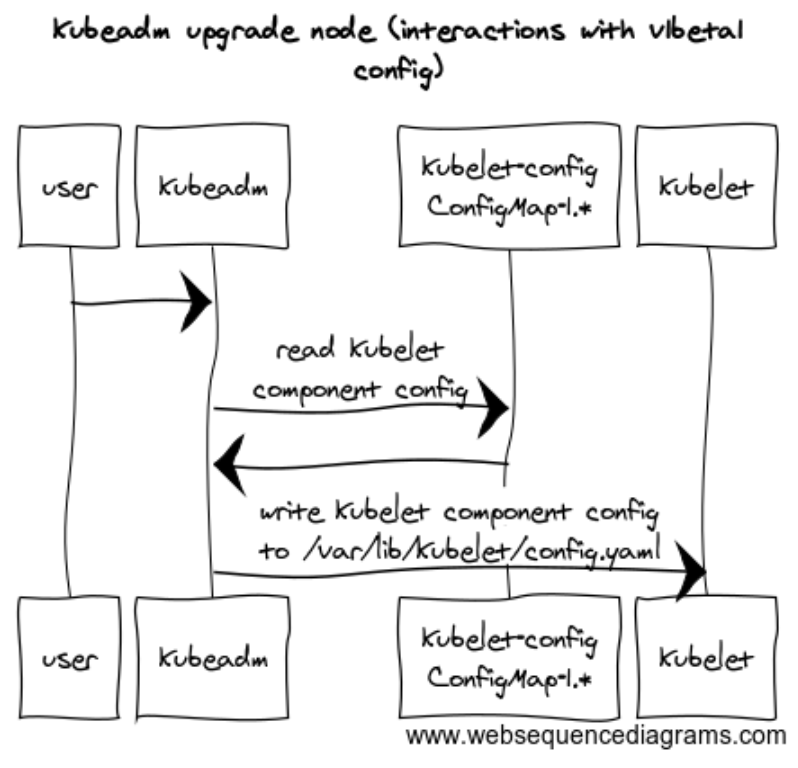
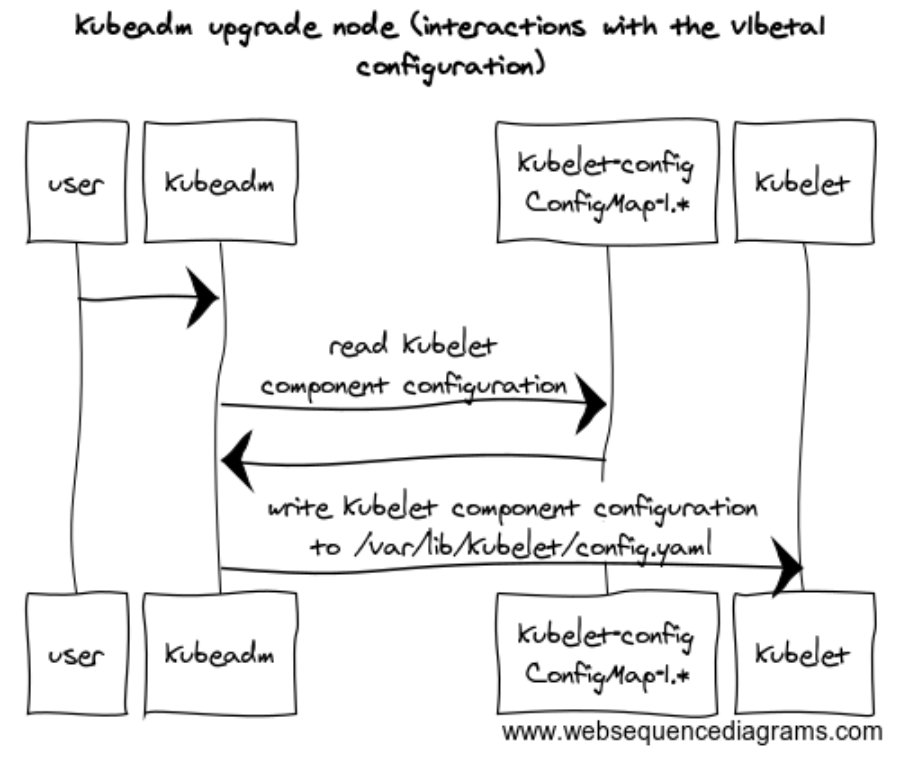
documentation for images

diff --git a/keps/sig-cluster-lifecycle/0023-documentation-for-images.md b/keps/sig-cluster-lifecycle/0023-documentation-for-images.md
@@ -1,0 +1,148 @@
+
+
+# Documentation for images
+
+Open https://www.websequencediagrams.com/ and paste the spec for the desired image:
+
+- [kubeadm init](#kubeadm-init)
+- [kubeadm join (and join --control-plane)](#kubeadm-join-and-join---control-plane)
+- [kubeadm reset](#kubeadm-reset)
+- [kubeadm upgrade](#kubeadm-upgrade)
+- [kubeadm upgrade node](#kubeadm-upgrade-node)
+
+## kubeadm init
+
+```
+title kubeadm init (interactions with the v1beta1 configuration)
+
+participant "user" as u 
+participant "kubeadm" as k
+participant "kubelet" as kk
+participant "node\n(api object)" as n
+participant "kubeadm-config\nConfigMap" as cm
+participant "kubeproxy-config\nConfigMap" as kpcm 
+participant "kubelet-config\nConfigMap-1.*" as kcm
+
+u->k:provide\nInitConfiguration (with NodeRegistrationOptions, ControlPlaneConfiguration)\nClusterConfiguration\nkube-proxy component configuration\nkubelet component configuration 
+
+k->kk:write kubelet component configuration\nto /var/lib/kubelet/config.yaml
+k->kk:write NodeRegistrationOptions\nto /var/lib/kubelet/kubeadm-flags.env
+kk->n:start node
+k->n:save NodeRegistrationOptions.CRISocket\nto kubeadm.alpha.kubernetes.io/cri-socket annotation 
+
+k->k:use InitConfiguration\n(e.g. tokens)
+
+k->cm:save ClusterConfiguration
+k->cm:add Current ControlPlaneConfiguration to ClusterConfiguration.Status
+
+k->kpcm:save kube-proxy component configuration 
+k->kcm:save kubelet component configuration 
+```
+
+## kubeadm join (and join --control-plane)
+
+```
+title kubeadm join and join --control-plane (interactions with the v1beta1 configuration)
+
+participant "user" as u 
+participant "kubeadm" as k
+participant "kubeadm-config\nConfigMap" as cm
+participant "kubelet-config\nConfigMap-1.*" as kcm
+participant "kubelet" as kk
+participant "node\n(api object)" as n
+
+u->k:provide\nJoinConfiguration\n(with NodeRegistrationOptions) 
+
+k->cm:read ClusterConfiguration
+cm->k:
+k->k:use ClusterConfiguration\n(e.g. ClusterName)
+
+k->kcm:read kubelet\ncomponent configuration
+kcm->k:
+k->kk:write kubelet component configuration\nto /var/lib/kubelet/config.yaml
+k->kk:write NodeRegistrationOptions\nto /var/lib/kubelet/kubeadm-flags.env
+kk->n:start node
+k->n:save NodeRegistrationOptions.CRISocket\nto kubeadm.alpha.kubernetes.io/cri-socket annotation 
+
+k->cm:add new ControlPlaneConfiguration\nto ClusterConfiguration.Status\n(only for join --control-plane)
+```
+
+## kubeadm reset 
+
+```
+title kubeadm reset (interactions with the v1beta1 configuration)
+
+participant "user" as u 
+participant "kubeadm" as k
+participant "kubeadm-config\nConfigMap" as cm
+participant "node\n(api object)" as n
+
+
+u->k: 
+
+k->cm:read ClusterConfiguration
+cm->k:
+k->cm:remove ControlPlaneConfiguration\nfrom ClusterConfiguration.Status\n(only if the node hosts a control plane instance)
+
+k->n:read kubeadm.alpha.kubernetes.io/cri-socket annotation 
+n->k:
+k->k:use CRIsocket\nto delete containers
+```
+
+## kubeadm upgrade
+
+```
+title kubeadm upgrade apply (interactions with the v1beta1 configuration)
+
+participant "user" as u 
+participant "kubeadm" as k
+participant "kubeadm-config\nConfigMap" as cm
+participant "kubeproxy-config\nConfigMap" as kpcm 
+participant "kubelet-config\nConfigMap-1.*+1" as kcm
+participant "kubelet" as kk
+participant "node\n(api object)" as n
+
+u->k: UpgradeConfiguration
+note over u, n:Upgrade configuration should allow only well known changes to the cluster e.g. the change of custom images if used
+
+
+k->cm:read ClusterConfiguration
+cm->k:
+k->k:update\nClusterConfiguration\nusing api machinery
+k->cm:save updated ClusterConfiguration
+
+k->kpcm:read kube-proxy component configuration
+kpcm->k:
+k->k:update kube-proxy\ncomponent configuration\nusing api machinery
+k->kpcm:save updated kube-proxy component configuration
+note over kpcm, n:the updated kube-proxy component configuration will\nbe used by the updated kube-proxy DaemonSet 
+
+k->kcm:read kubelet component configuration
+kcm->k:
+k->k:update kubelet\ncomponent configuration\nusing api machinery
+k->kcm:save updated kubelet component configuration 
+k->kk:write kubelet component configuration\nto /var/lib/kubelet/config.yaml
+k->kk:write NodeRegistrationOptions\nto /var/lib/kubelet/kubeadm-flags.env
+kk->n:start node
+
+note over kcm, n:the updated kubelet component configuration\nwill be used by other nodes\nwhen running\nkubeadm upgrade nodes locally 
+
+```
+
+## kubeadm upgrade node
+
+```
+title kubeadm upgrade node (interactions with the v1beta1 configuration)
+
+participant "user" as u 
+participant "kubeadm" as k
+participant "kubelet-config\nConfigMap-1.*" as kcm
+participant "kubelet" as kk
+
+u->k: 
+
+k->kcm:read kubelet\ncomponent configuration
+kcm->k:
+k->kk:write kubelet component configuration\nto /var/lib/kubelet/config.yaml
+```
+
